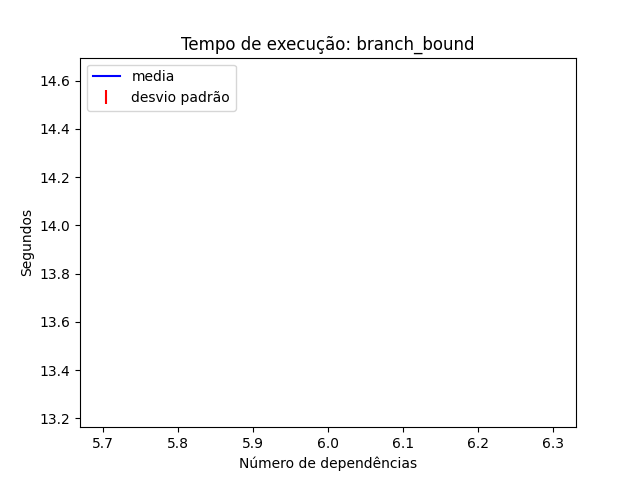
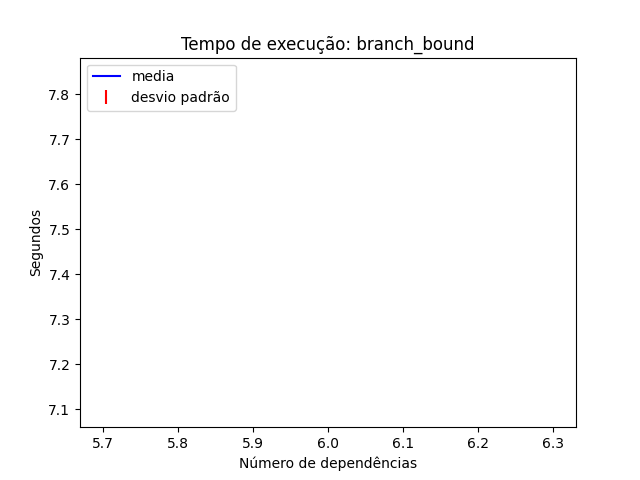
BB um pouco mais preciso (talvez?). Continua dando o resultado errado raramente

diff --git a/dev/Algoritmo/branch_bound.py b/dev/Algoritmo/branch_bound.py
@@ -69,6 +69,10 @@ def branch(n, C_bb, menor_custo):
             if menor_custo is not None:
                 if lb > menor_custo:
                     continue
+            menor_custo = C_bb[i][k][i][k] + lb
+            for ic in i_branch:
+                for kc in k_branch:
+                    menor_custo += C_bb[i][k][i][k]
 
             # Branching recursivo
             X_branch, custo_branch = branch(n-1, C_branch, menor_custo)
@@ -76,7 +80,6 @@ def branch(n, C_bb, menor_custo):
                 continue
 
             # Atualiza solucao com menor custo
-            menor_custo = C_bb[i][k][i][k] + custo_branch
             X = np.zeros((n, n))
             X[i][k] = 1
             X_aux = [x.item() for x in np.nditer(X_branch)]
